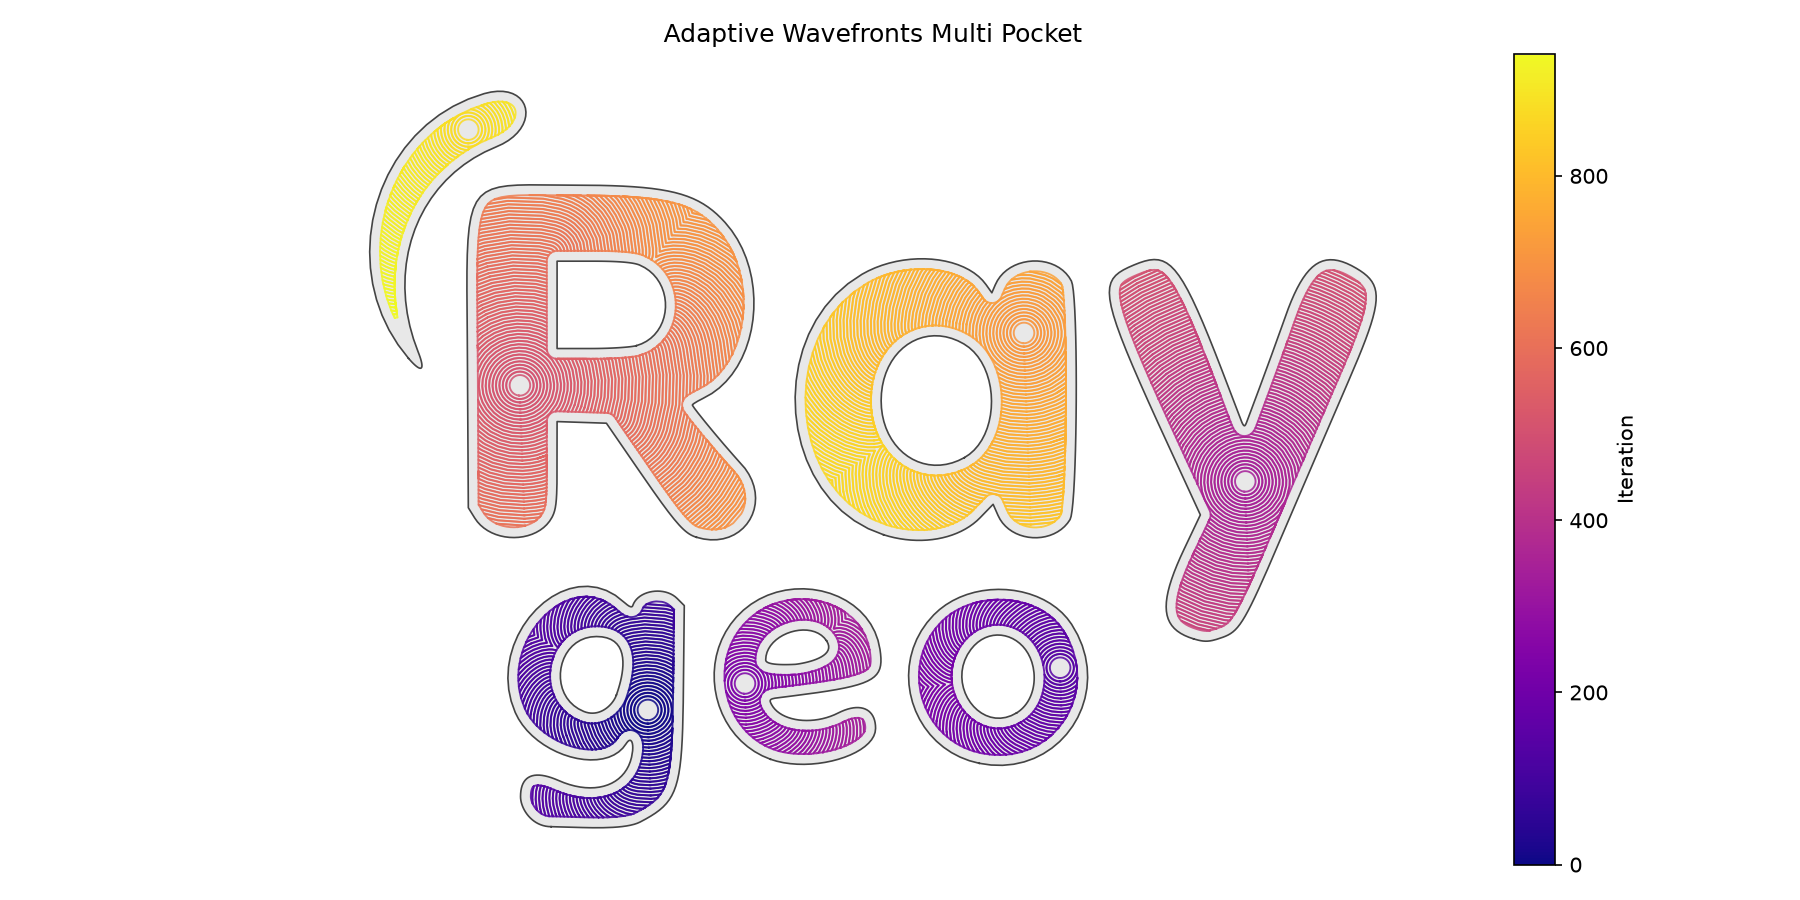
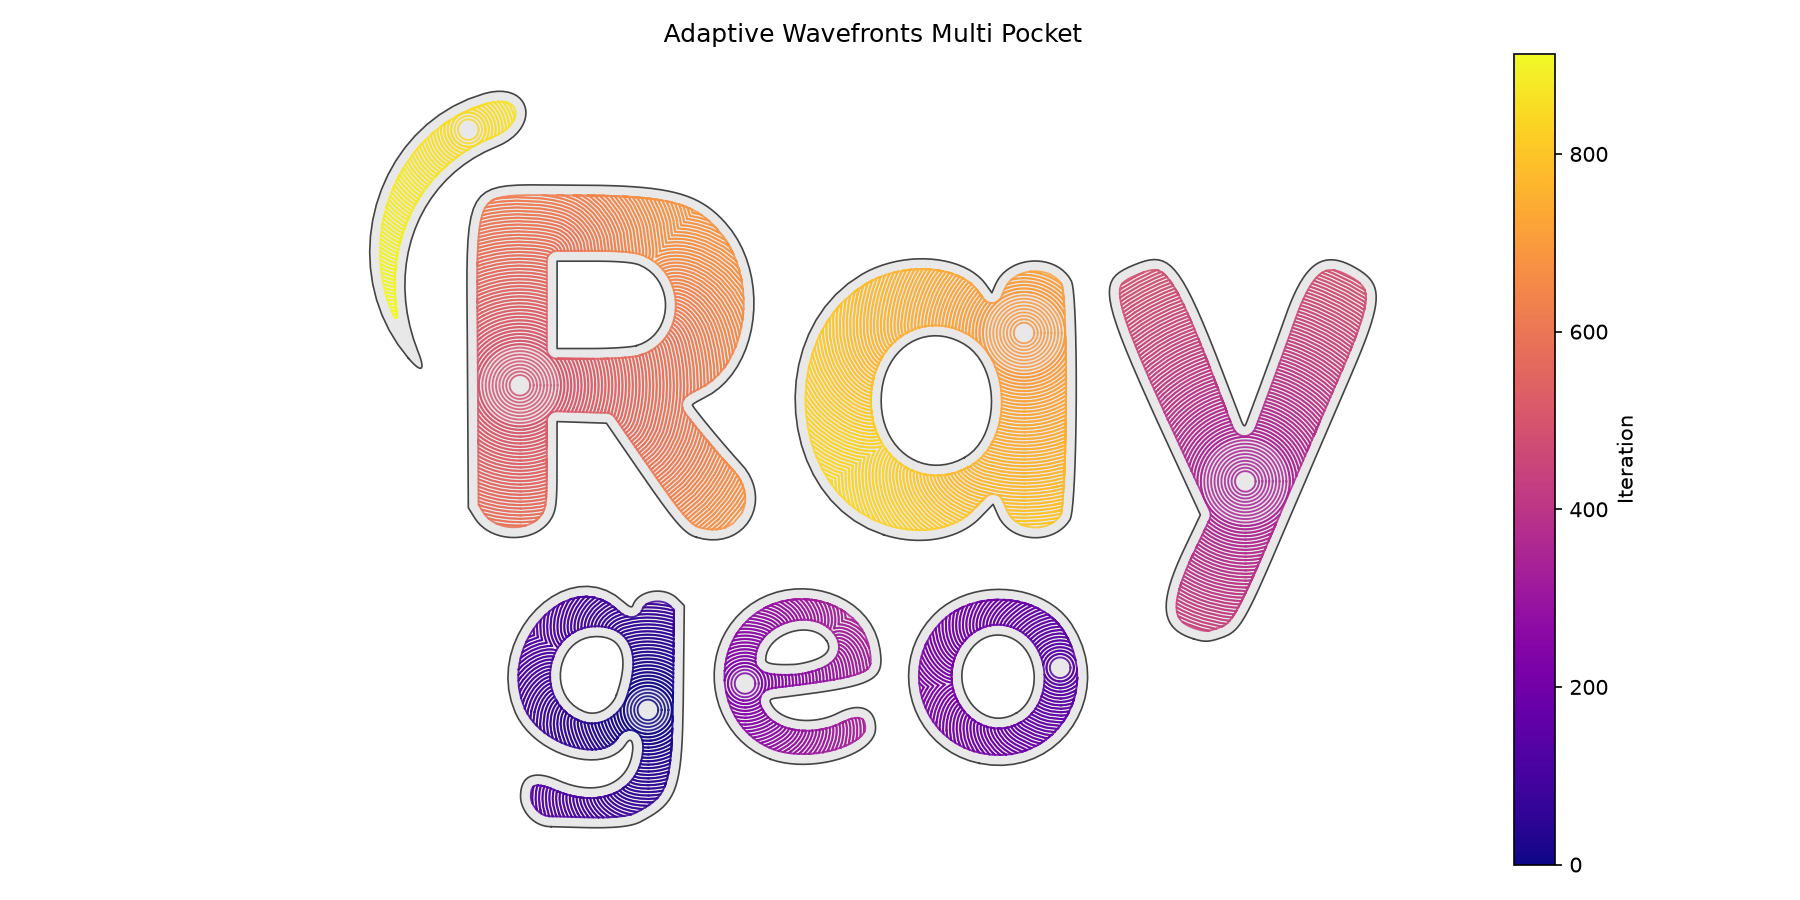
fix: wavefront not filling seed with lines

diff --git a/src/ops/assembly/wavefront.rs b/src/ops/assembly/wavefront.rs
@@ -4,7 +4,6 @@ use prof_macros::prof;
 
 use crate::error::RaygeoResult;
 use crate::geo::algo::fitting::linearize_data;
-use crate::geo::algo::helix::HelixDirection;
 use crate::geo::algo::offset::grow_geometry;
 use crate::geo::algo::polylabel::find_largest_circle;
 use crate::geo::algo::topology::{
@@ -12,11 +11,10 @@ use crate::geo::algo::topology::{
 };
 use crate::geo::geometry::Geometry;
 use crate::geo::shape::polygon::{
-    clean_polygon, get_polygon_area, get_polygon_centroid,
+    clean_polygon, get_circle_polygon, get_polygon_area, get_polygon_centroid,
     is_point_inside_polygon, resample_polygon,
 };
 use crate::ops::assembly::result::AssemblyMeta;
-use crate::ops::assembly::spiral::{generate_spiral, SpiralOptions};
 use crate::ops::assembly::Tracelet;
 use crate::ops::container::Ops;
 use crate::ops::part::Part;
@@ -50,6 +48,7 @@ pub fn adaptive_wavefronts(
     trace: &mut Tracelet,
     opts: &AdaptiveWavefrontOptions,
     cut_state: &State,
+    seed: &[Polygon],
 ) -> RaygeoResult<AssemblyMeta> {
     let mut state_applied = false;
 
@@ -63,6 +62,39 @@ pub fn adaptive_wavefronts(
     // and actionable_remaining() call.
     let envelope = part.cleared.envelope(&part.stock_region, opts.tool_radius);
     part.cleared.set_envelope_cache(envelope);
+
+    // Emit pre-seeded rings through the exact same code path as
+    // wavefront rings: one `move_to` + `line_to` per ring, sharing
+    // the same `state_applied` flag.  No section markers, no separate
+    // state application — structurally identical to wavefront output.
+    for frag in seed {
+        let frag_area = get_polygon_area(frag);
+        if frag_area < opts.area_tolerance {
+            continue;
+        }
+        let points: Vec<Point> = if opts.precision > 0.0 {
+            resample_polygon(frag, opts.precision)
+        } else {
+            frag.clone()
+        };
+        if points.len() < 3 {
+            continue;
+        }
+        if !state_applied {
+            trace.apply_state(cut_state);
+            state_applied = true;
+        }
+        if first_point.is_none() {
+            first_point = Some(points[0]);
+        }
+        last_point = Some(points[points.len() - 1]);
+        let ring_start = points[0];
+        trace.move_to(ring_start.x, ring_start.y, opts.z, None);
+        for p in &points[1..] {
+            trace.line_to(p.x, p.y, opts.z, None);
+        }
+        trace.line_to(ring_start.x, ring_start.y, opts.z, None);
+    }
 
     for _ in 0..MAX_WAVEFRONT_ITERATIONS {
         let bounded = part.cleared.bites(
@@ -146,8 +178,9 @@ pub fn adaptive_wavefronts(
 /// Multi-pocket adaptive wavefronts.
 ///
 /// Extracts all pockets from `part.geometry`, optionally offsets the
-/// boundary inward, seeds each pocket with a large circle, and runs
-/// wavefront expansion inside each.  Returns the combined `Ops`.
+/// boundary inward, seeds each pocket with concentric rings spaced
+/// `step_over` apart, and runs wavefront expansion inside each.
+/// Returns the combined `Ops`.
 #[allow(clippy::too_many_arguments)]
 #[prof]
 pub fn adaptive_wavefronts_multi_pocket(
@@ -239,40 +272,44 @@ pub fn adaptive_wavefronts_multi_pocket(
     let mut last_point: Option<Point3D> = None;
 
     for (boundary, islands) in &pockets {
-        let mut pocket_part =
-            Part::from_polygons(boundary, islands, (0.0, 0.0));
-
-        // Seed along the pocket's full extent so the wavefront has
-        // fewer rings to expand.  For elongated pockets the single
-        // circle seed leaves most of the pocket uncovered, forcing
-        // hundreds of wavefront iterations with small step_over.
+        // Find the largest inscribed circle to seed the cleared area.
         let (center, r_max) = find_largest_circle(boundary, islands, 0.1)
             .unwrap_or_else(|| (get_polygon_centroid(boundary), 0.0));
 
-        let helix_r = (tool_radius * 0.8).min(r_max * 0.5);
-        let min_seed_r = helix_r.max(tool_radius * 2.0).max(0.05);
-        let spiral_max_r = (r_max - tool_radius).max(min_seed_r);
-        let radial_dist = spiral_max_r - helix_r;
+        // Seed with concentric rings spaced `step_over` apart so the
+        // wavefront expands smoothly from the pocket centre.  The
+        // outermost ring is the frontier; the first wavefront bite
+        // expands it by exactly `step_over`, giving an equidistant,
+        // seamless transition into the wavefront phase.
+        //
+        // The rings cover the inscribed disk up to the largest radius
+        // where the tool centre can safely travel, leaving the
+        // wavefront to fill the remaining (typically irregular) rim.
+        let seed_r = tool_radius.min(r_max * 0.8).max(0.01);
+        let spiral_max_r = (r_max - tool_radius).max(seed_r);
 
-        // Seed the pocket with a flat spiral
-        if radial_dist > 0.0 && step_over > 0.0 {
-            let spiral_opts = SpiralOptions {
-                center,
-                z,
-                start_radius: helix_r,
-                end_radius: spiral_max_r,
-                revolutions: radial_dist / step_over,
-                direction: HelixDirection::Cw,
-                angular_step: 0.1,
-                start_angle: 0.0,
-            };
-            generate_spiral(
-                &mut pocket_part,
-                &mut trace,
-                &spiral_opts,
-                &cut_state,
-            )?;
+        let mut seed_polys: Vec<Polygon> = Vec::new();
+        if step_over > 0.0 {
+            let mut r = seed_r;
+            while r <= spiral_max_r {
+                seed_polys.push(get_circle_polygon(center, r, 64));
+                r += step_over;
+            }
+            // Always include the outermost ring so the frontier sits
+            // at the maximum seed radius.
+            if seed_polys.is_empty() {
+                seed_polys.push(get_circle_polygon(center, spiral_max_r, 64));
+            }
+        } else {
+            seed_polys.push(get_circle_polygon(center, seed_r, 64));
         }
+
+        let mut pocket_part = Part::from_polygons_initial(
+            boundary,
+            islands,
+            &seed_polys,
+            (0.0, 0.0),
+        );
 
         // Expand with adaptive wavefronts
         let wf_opts = AdaptiveWavefrontOptions {
@@ -287,6 +324,7 @@ pub fn adaptive_wavefronts_multi_pocket(
             &mut trace,
             &wf_opts,
             &cut_state,
+            &seed_polys,
         )?;
 
         if first_point.is_none() {

diff --git a/src/python/ops/assembly/wavefront.rs b/src/python/ops/assembly/wavefront.rs
@@ -108,6 +108,7 @@ fn adaptive_wavefronts_py(
         &mut trace,
         &opts,
         &cut_state,
+        &[],
     )?;
     let events = trace.drain();
     let attrs = trace.attrs().cloned();
@@ -133,9 +134,9 @@ fn adaptive_wavefronts_py(
         """Multi-pocket adaptive wavefronts.
 
         Extracts all pockets from *part.geometry*, optionally offsets
-        the boundary inward by *offset_mm*, and runs a spiral-seed +
-        wavefront expansion inside each pocket.  Returns the combined
-        result.
+        the boundary inward by *offset_mm*, seeds each pocket with
+        concentric rings spaced *step_over* apart, and runs wavefront
+        expansion inside each pocket.  Returns the combined result.
 
         :param part: The part whose geometry defines the pockets.
         :param tool_radius: Tool radius in mm (default 3.0).

diff --git a/docs/api/raygeo.ops.assembly.wavefront.md b/docs/api/raygeo.ops.assembly.wavefront.md
@@ -67,13 +67,15 @@ adaptive_wavefronts_multi_pocket(
     precision: float = 0,
     cut_feed_rate: int = 1200,
     cut_power: float = 1,
+    profile: bool = False,
 ) -> ops.assembly.AssemblyResult
 ```
 
 Multi-pocket adaptive wavefronts.
 
 Extracts all pockets from *part.geometry*, optionally offsets the boundary inward by *offset_mm*,
-and runs a spiral-seed + wavefront expansion inside each pocket. Returns the combined result.
+seeds each pocket with concentric rings spaced *step_over* apart, and runs wavefront expansion
+inside each pocket. Returns the combined result.
 
 **Raises:** `ValueError` — If the part has no geometry or no closed contours.
 
@@ -87,6 +89,7 @@ and runs a spiral-seed + wavefront expansion inside each pocket. Returns the com
 | `precision`      | `float = 0`                   | Edge tolerance for frontier simplification (default 0.0). |
 | `cut_feed_rate`  | `int = 1200`                  | Feed rate for cutting moves (default 1200).               |
 | `cut_power`      | `float = 1`                   | Laser power for cutting moves (0.0-1.0, default 1.0).     |
+| `profile`        | `bool = False`                | Print a profiling report to stdout (default False).       |
 | _Returns_        | `ops.assembly.AssemblyResult` | An **AssemblyResult** with combined wavefront paths.      |
 
 ![Adaptive wavefronts in a complex SVG shape — contours adapt to the boundary and wrap around islands](images/ops-assembly-wavefront-wavefront-svg.png)

diff --git a/docs/api/raygeo.ops.md b/docs/api/raygeo.ops.md
@@ -612,6 +612,34 @@ Copy a single command from another Ops sequence into this one.
 | _Returns_    | `None` |                               |
 | _Complexity_ |        | O(1) time, O(1) space         |
 
+### `count_cutting()`
+
+```python
+count_cutting() -> int
+```
+
+Return the number of cutting commands in this sequence.
+
+Counts all LineTo, ArcTo, BezierTo, QuadraticBezierTo, and ScanLine commands.
+
+| Parameter    | Type  | Description                 |
+| ------------ | ----- | --------------------------- |
+| _Returns_    | `int` | Number of cutting commands. |
+| _Complexity_ |       | O(n) time, O(1) space       |
+
+### `count_travel()`
+
+```python
+count_travel() -> int
+```
+
+Return the number of travel (MoveTo) commands in this sequence.
+
+| Parameter    | Type  | Description                |
+| ------------ | ----- | -------------------------- |
+| _Returns_    | `int` | Number of travel commands. |
+| _Complexity_ |       | O(n) time, O(1) space      |
+
 ### `cut_distance()`
 
 ```python
